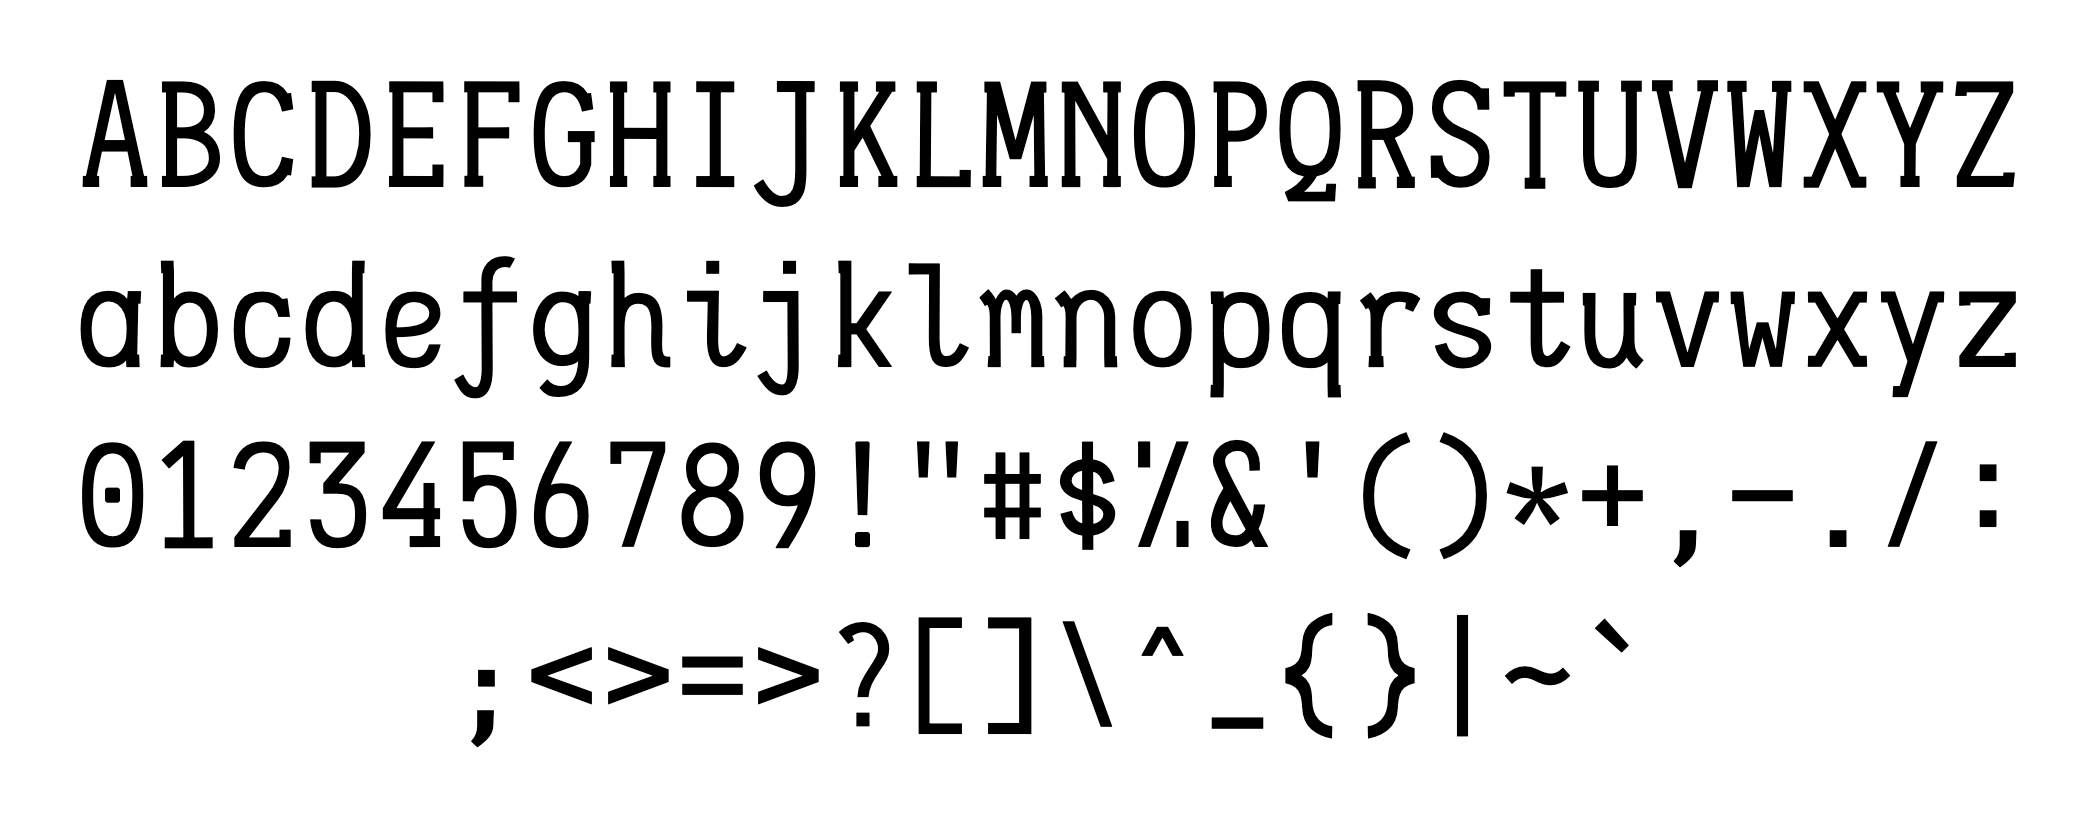
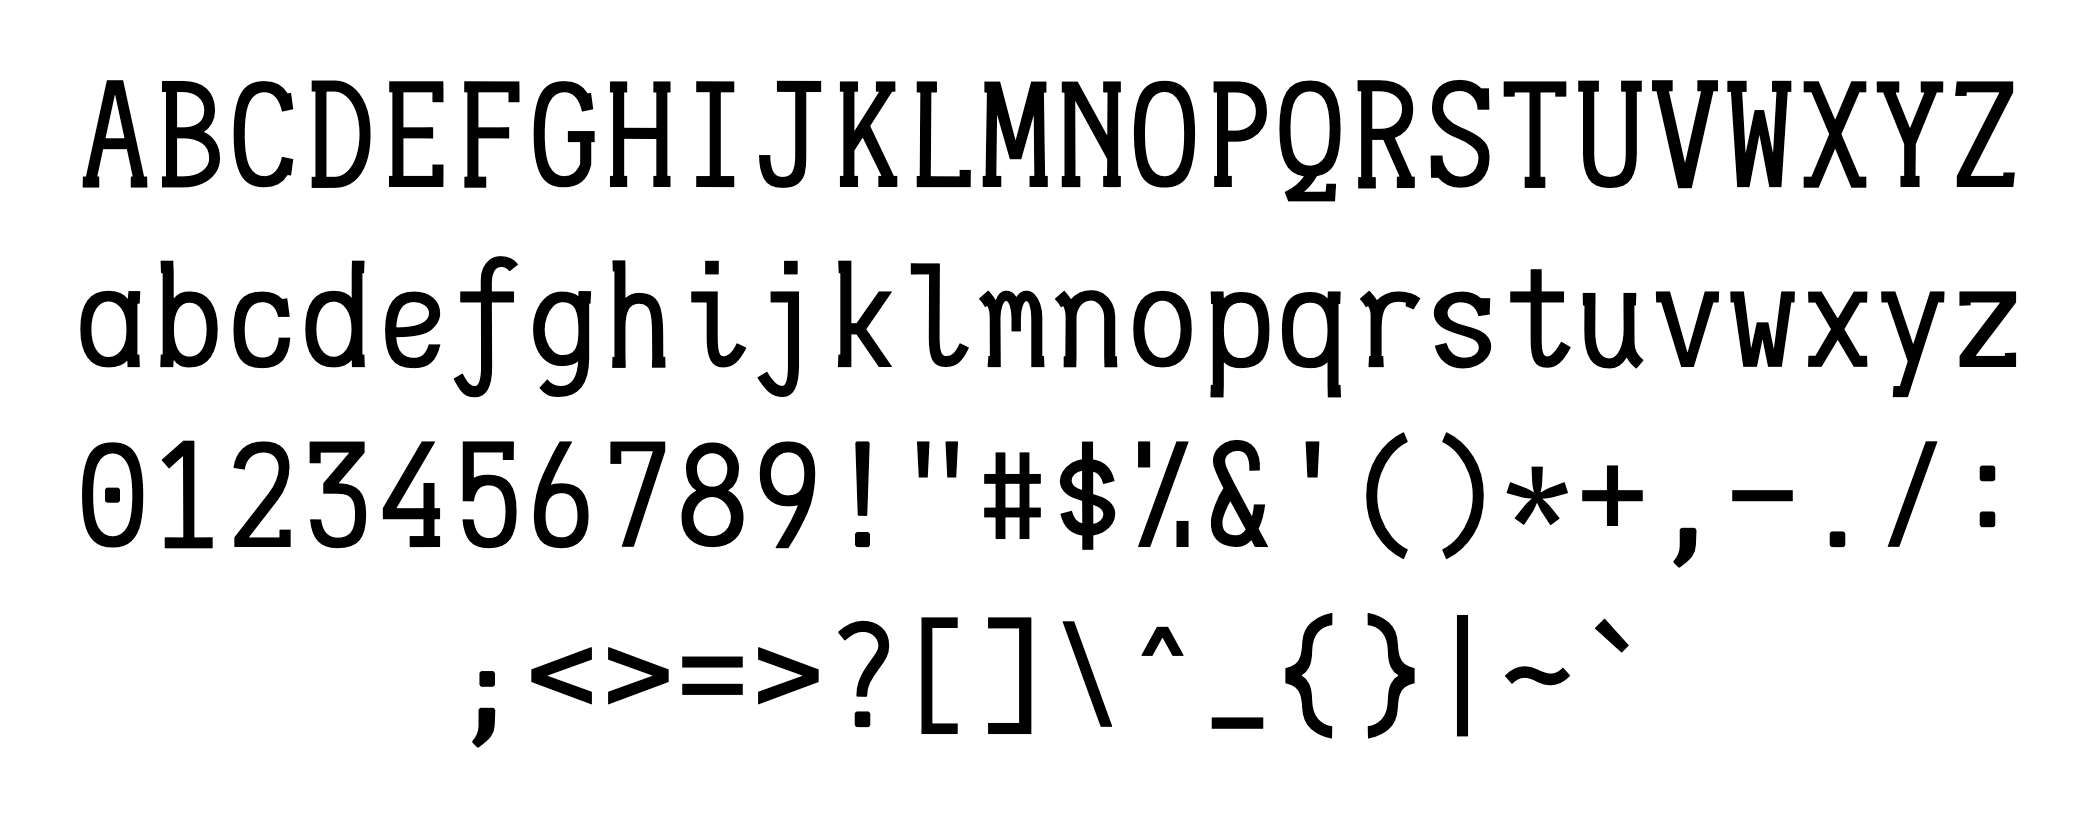
Update preview images

diff --git a/README.md b/README.md
@@ -20,7 +20,7 @@ Variants
   </tr>
   <tr>
     <td><img src="./images/png/ascii_regular.png"/></td>
-    <td><img src="./images/png/void.png"/></td>
+    <td><img src="./images/png/ascii_liga.png"/></td>
   </tr>
   <tr>
     <td colspan="2"><strong>Greek</strong></td>
